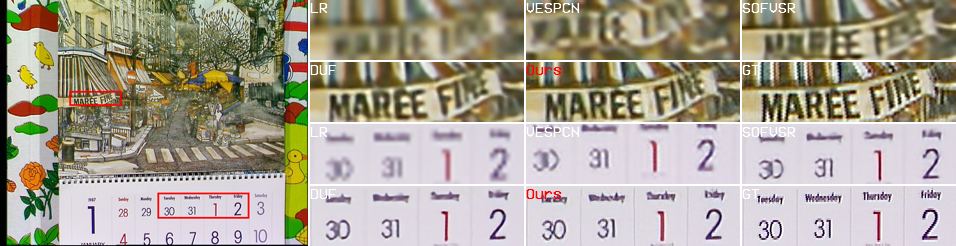
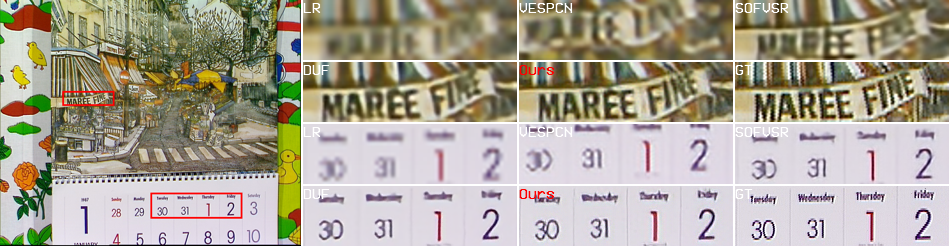
update
update readme file and other pictures

diff --git a/README.md b/README.md
@@ -1,57 +1,62 @@
-# TecoGAN-PyTorch
-
-### Introduction
-This is a PyTorch reimplementation of **TecoGAN**: **Te**mporally **Co**herent **GAN** for Video Super-Resolution (VSR). Please refer to the official TensorFlow implementation [TecoGAN-TensorFlow](https://github.com/thunil/TecoGAN) for more information.
+# EGVSR-PyTorch
 
 <p align = "center">
-    <img src="resources/fire.gif" width="320" />
-    <img src="resources/pond.gif" width="320" />
+    <img src="results/city.gif" width="480" /><br>VSR x4: EGVSR; Upscale x4: Bicubic Interpolation
 </p>
 
-<p align = "center">
-    <img src="resources/foliage.gif" width="320" />
-    <img src="resources/bridge.gif" width="320" />
-</p>
+## Contents
+- [EGVSR-PyTorch](#egvsr-pytorch)
+  - [Contents](#contents)
+  - [Introduction](#introduction)
+  - [Features](#features)
+  - [Dependencies](#dependencies)
+  - [Datasets](#datasets)
+    - [A. Training Dataset](#a-training-dataset)
+    - [B. Testing Datasets](#b-testing-datasets)
+  - [Benchmarks](#benchmarks)
+    - [A. Test on Vid4 Dataset](#a-test-on-vid4-dataset)
+    - [B. Test on Tos3 Dataset](#b-test-on-tos3-dataset)
+    - [C. Test on Gvt72 Dataset](#c-test-on-gvt72-dataset)
+    - [D. Optical-Flow based Motion Compensation](#d-optical-flow-based-motion-compensation)
+    - [E. Comprehensive Performance](#e-comprehensive-performance)
+  - [License & Citations](#license--citations)
+  - [Acknowledgements](#acknowledgements)
 
 
-### Features
-- **Better Performance**: This repo provides model with smaller size yet better performance than the official repo. See our [Benchmark](https://github.com/skycrapers/TecoGAN-PyTorch#benchmark) on Vid4 and ToS3 datasets.
-- **Multiple Degradations**: This repo supports two types of degradation, i.e., BI & BD. Please refer to [this wiki]() for more details about degradation types.
-- **Unified Framework**: This repo provides a unified framework for distortion-based and perception-based VSR methods.
+## Introduction
+This is a PyTorch implementation of **EGVSR**: **E**fficcient & **G**eneral Video Super-Resolution (**VSR**), using subpixel convolution to optimize the inference speed of TecoGAN VSR model. Please refer to the official implementation [ESPCN](https://github.com/leftthomas/ESPCN) and [TecoGAN](https://github.com/thunil/TecoGAN) for more information.
 
-### Contents
-1. [Dependencies](#dependencies)
-1. [Test](#test)
-1. [Training](#training)
-1. [Benchmark](#benchmark)
-1. [License & Citation](#license--citation)
-1. [Acknowledgements](#acknowledgements)
 
+## Features
+- **Unified Framework**: This repo provides a unified framework for various state-of-the-art DL-based VSR methods, such as VESPCN, SOFVSR, FRVSR, TecoGAN and our EGVSR.
+- - **Multiple Test Datasets**: This repo offers three types of video datasets for testing, i.e., standard test dataset -- Vid4, Tos3 used in TecoGAN and our new dataset -- Gvt72 (selected from [Vimeo](https://vimeo.com) site and including more scenes).
+- **Better Performance**: This repo provides model with faster inferencing speed yet better overall performance than prior methods. See more details in [Benchmarks](#benchmarks) section.
 
 
 ## Dependencies
 - Ubuntu >= 16.04
-- NVIDIA GPU + CUDA
+- NVIDIA GPU + CUDA & CUDNN
 - Python 3
 - PyTorch >= 1.0.0
-- Python packages: numpy, matplotlib, opencv-python, pyyaml, lmdb
+- Python packages: numpy, matplotlib, opencv-python, pyyaml, lmdb ([requirements.txt](requirements.txt) & [req.txt](req.txt))
 - (Optional) Matlab >= R2016b
 
 
+## Datasets
+### A. Training Dataset
+Download the official training dataset based on the instructions in [TecoGAN-TensorFlow](https://github.com/thunil/TecoGAN), rename to `VimeoTecoGAN` and then place under `./data`.
 
-## Test
+### B. Testing Datasets
+* Vid4 -- Four video sequences: city, calendar, foliage and walk;
+* Tos3 -- Three video sequences: bridge, face and room;
+* Gvt72 -- General VSR Test Dataset: 72 video sequences (including natural scenery, culture scenery, streetscape scene, life record, sports photography, etc, as shown below)
 
-**Note:** We apply different models according to the degradation type of the data. The following steps are for 4x upsampling in BD degradation. You can switch to BI degradation by replacing all `BD` to `BI` below.
+<p align = "center">
+    <img src="results/gvt72_preview.gif" width="640" />
+</p>
 
-1. Download the official Vid4 and ToS3 datasets.
-```bash
-bash ./scripts/download/download_datasets.sh BD 
-```
-> If the above command doesn't work, you can manually download these datasets from Google Drive, and then unzip them under `./data`.
-> * Vid4 Dataset [[Ground-Truth Data](https://drive.google.com/file/d/1T8TuyyOxEUfXzCanH5kvNH2iA8nI06Wj/view?usp=sharing)] [[Low Resolution Data (BD)](https://drive.google.com/file/d/1-5NFW6fEPUczmRqKHtBVyhn2Wge6j3ma/view?usp=sharing)] [[Low Resolution Data (BI)](https://drive.google.com/file/d/1Kg0VBgk1r9I1c4f5ZVZ4sbfqtVRYub91/view?usp=sharing)]
-> * ToS3 Dataset [[Ground-Truth Data](https://drive.google.com/file/d/1XoR_NVBR-LbZOA8fXh7d4oPV0M8fRi8a/view?usp=sharing)] [[Low Resolution Data (BD)](https://drive.google.com/file/d/1rDCe61kR-OykLyCo2Ornd2YgPnul2ffM/view?usp=sharing)] [[Low Resolution Data (BI)](https://drive.google.com/file/d/1FNuC0jajEjH9ycqDkH4cZQ3_eUqjxzzf/view?usp=sharing)] 
 
-The dataset structure is shown as below.
+The following shows the structure of the above three datasets.
 ```tex
 data
   ├─ Vid4
@@ -59,128 +64,99 @@ data
       └─ calendar
         ├─ 0001.png
         └─ ...
-    ├─ Gaussian4xLR      # Low Resolution (LR) video sequences in BD degradation
-      └─ calendar
-        ├─ 0001.png
-        └─ ...
-    └─ Bicubic4xLR       # Low Resolution (LR) video sequences in BI degradation
+    ├─ Gaussian4xLR      # Low Resolution (LR) video sequences in gaussian degradation and x4 down-sampling
       └─ calendar
         ├─ 0001.png
         └─ ...
   └─ ToS3
     ├─ GT
-    ├─ Gaussian4xLR
-    └─ Bicubic4xLR
+    └─ Gaussian4xLR
+  └─ Gvt72
+    ├─ GT
+    └─ Gaussian4xLR
 ```
 
-2. Download our pre-trained TecoGAN model. Note that this model is trained with lesser training data compared with the official one, since we can only retrieve 212 out of 308 videos from the official training dataset.
-```bash
-bash ./scripts/download/download_models.sh BD TecoGAN
-```
-> Again, you can download the model from [[BD degradation](https://drive.google.com/file/d/13FPxKE6q7tuRrfhTE7GB040jBeURBj58/view?usp=sharing)] or [[BI degradation](https://drive.google.com/file/d/1ie1F7wJcO4mhNWK8nPX7F0LgOoPzCwEu/view?usp=sharing)], and put it under `./pretrained_models`.
 
-3. Super-resolute the LR videos with TecoGAN. The results will be saved at `./results`.
-```bash
-bash ./test.sh BD TecoGAN
-```
+## Benchmarks
+**Experimental Environment**
+|        | Version            | Info.      |
+| ------ |:------------------ | :--------- |
+| System | Ubuntu 18.04.5 LTS | X86_64     |
+| CPU    | Intel i9-9900      | 3.10GHz    |
+| GPU    | Nvidia RTX 2080Ti  | 11GB GDDR6 |
+| Memory | DDR4 2666          | 32GB×2    |
 
-4. Evaluate SR results using the official metrics. These codes are borrowed from [TecoGAN-TensorFlow](https://github.com/thunil/TecoGAN), with minor modifications to adapt to BI mode.
-```bash
-python ./codes/official_metrics/evaluate.py --model TecoGAN_BD_iter500000
-```
-
-5. Check out model statistics (FLOPs, parameters and running speed). You can modify the last argument to specify the video size.
-```bash
-bash ./profile.sh BD TecoGAN 3x134x320
-```
-
-## Training
-1. Download the official training dataset based on the instructions in [TecoGAN-TensorFlow](https://github.com/thunil/TecoGAN), rename to `VimeoTecoGAN` and then place under `./data`.
-
-2. Generate LMDB for GT data to accelerate IO. The LR counterpart will then be generated on the fly during training.
-```bash
-python ./scripts/create_lmdb.py --dataset VimeoTecoGAN --data_type GT
-```
-
-The following shows the dataset structure after completing the above two steps.
-```tex
-data
-  ├─ VimeoTecoGAN          # Original (raw) dataset
-    ├─ scene_2000
-      ├─ col_high_0000.png
-      ├─ col_high_0001.png
-      └─ ...
-    ├─ scene_2001
-      ├─ col_high_0000.png
-      ├─ col_high_0001.png
-      └─ ...
-    └─ ...
-  └─ VimeoTecoGAN.lmdb     # LMDB dataset
-    ├─ data.mdb
-    ├─ lock.mdb
-    └─ meta_info.pkl       # each key has format: [vid]_[total_frame]x[h]x[w]_[i-th_frame]
-```
-
-3. **(Optional, this step is needed only for BI degradation)** Manually generate the LR sequences with Matlab's imresize function, and then create LMDB for them.
-```bash
-# Generate the raw LR video sequences. Results will be saved at ./data/Bicubic4xLR
-matlab -nodesktop -nosplash -r "cd ./scripts; generate_lr_BI"
-
-# Create LMDB for the raw LR video sequences
-python ./scripts/create_lmdb.py --dataset VimeoTecoGAN --data_type Bicubic4xLR
-```
-
-4. Train a FRVSR model first. FRVSR has the same generator as TecoGAN, but without GAN training. When the training is finished, copy and rename the last checkpoint weight from `./experiments_BD/FRVSR/001/train/ckpt/G_iter400000.pth` to `./pretrained_models/FRVSR_BD_iter400000.pth`. This step offers a better initialization for the TecoGAN training.
-```bash
-bash ./train.sh BD FRVSR
-```
-> You can download and use our pre-trained FRVSR model [[BD degradation](https://drive.google.com/file/d/11kPVS04a3B3k0SD-mKEpY_Q8WL7KrTIA/view?usp=sharing)] [[BI degradation](https://drive.google.com/file/d/1wejMAFwIBde_7sz-H7zwlOCbCvjt3G9L/view?usp=sharing)] without training from scratch.
->```bash
->bash ./scripts/download/download_models.sh BD FRVSR
->```
-
-5. Train a TecoGAN model. By default, the training is conducted in the background and the output info will be logged at `./experiments_BD/TecoGAN/001/train/train.log`.
-```bash
-bash ./train.sh BD TecoGAN
-```
-
-6. To monitor the training process and visualize the validation performance, run the following script.
-```bash
- python ./scripts/monitor_training.py --degradation BD --model TecoGAN --dataset Vid4
-```
-> Note that the validation results are NOT the same as the test results mentioned above, because we use a different implementation of the metrics. The differences are caused by croping policy, LPIPS version and some other issues.
-
-
-
-## Benchmark
-
+### A. Test on Vid4 Dataset
 <p align = "center">
-    <img src="resources/benchmark.png" width="640" />
+    <img src="results/cmp_Vid4_calendar_20.png"/>
+    <img src="results/cmp_Vid4_city_20.png"/>
+    <img src="results/cmp_Vid4_foliage_20.png"/>
+    <img src="results/cmp_Vid4_walk_10.png"/>
+    <br> 1.LR 2.VESPCN 3.SOFVSR 4.DUF 5.Ours:EGVSR 6.GT
+    <img src="results/vid4_benchmarks.png" width='640'/>
+    <br>Objective metrics for visual quality evaluation[1]
 </p>
 
-> <sup>[1]</sup> FLOPs & speed are computed on RGB sequence with resolution 134\*320 on NVIDIA GeForce GTX 1080Ti GPU. \
-> <sup>[2]</sup> Both FRVSR & TecoGAN use 10 residual blocks, while TecoGAN+ has 16 residual blocks.
+### B. Test on Tos3 Dataset
+<p align = "center">
+    <img src="results/input_img_ToS3.png"/>
+    <img src="results/cmp_ToS3_bridge_13945.png"/>
+    <img src="results/cmp_ToS3_face_9945.png"/>
+    <img src="results/cmp_ToS3_room_4400.png"/>
+    <br> 1.VESPCN 2.SOFVSR 3. FRVSR 4.TecoGAN 5.Ours:EGVSR 6.GT
+    
+</p>
+    
+### C. Test on Gvt72 Dataset
+<p align = "center">
+    <img src="results/cmp_Gvt72.png"/>
+    <br> 1.LR 2.VESPCN 3.SOFVSR 4.DUF 5.Ours:EGVSR 6.GT    
+    <img src="results/benchmarks.png" width='800'/>
+    <br> Objective metrics for visual quality and temporal coherence evaluation[1]
+</p>
+
+### D. Optical-Flow based Motion Compensation
+
+Please refer to [FLOW_walk](result/seq_flow_walk.png), [FLOW_foliage](result/seq_flow_foliage.png) and [FLOW_city](result/seq_flow_city.png).
+
+### E. Comprehensive Performance
+
+<script type="text/javascript" src="http://cdn.mathjax.org/mathjax/latest/MathJax.js?config=default"></script>
+
+$$M_{nor}=(M-M_{min})/(M_{max}-M_{min})) \\
+Score=1-(\lambda_{1}LPIPS_{nor}+\lambda_{2}tOF{nor}+\lambda_{3}tLP100_{nor})[2]$$
 
 
+<p align = "center">
+  <img src="results/performance.png" width="640" />
+  <br> Comparison of various SOTA VSR model on video quality score and speed performance[3]
+</p>
 
-## License & Citation
-The provided implementation is strictly for academic purposes only. If you use this code for your research, please cite the following paper.
-```tex
-@article{tecogan2020,
-  title={Learning temporal coherence via self-supervision for GAN-based video generation},
-  author={Chu, Mengyu and Xie, You and Mayer, Jonas and Leal-Taix{\'e}, Laura and Thuerey, Nils},
-  journal={ACM Transactions on Graphics (TOG)},
-  volume={39},
-  number={4},
-  pages={75--1},
-  year={2020},
-  publisher={ACM New York, NY, USA}
+
+> <sup>[1]</sup> $\downarrow$: smaller value for better performance, $\uparrow$: on the contrary; Red: stands for Top1, Blue: Top2.
+> <sup>[2]</sup> The calculation formula of video quality score considering both spatial and temporal domain, using lambda1=lambda2=lambda3=1/3.
+> <sup>[3]</sup> FLOPs & speed are computed on RGB with resolution 960x540 to 3840x2160 (4K) on NVIDIA GeForce GTX 2080Ti GPU.
+
+
+## License & Citations
+This EGVSR project is released under the MIT license. See more details in [LICENSE](LICENSE).
+The provided implementation is strictly for academic purposes only. If BasicSR helps your research or work, please consider citing BasicSR. The following is a BibTeX reference:
+
+``` latex
+@misc{thmen2021egvsr,
+  author =       {Yanpeng Cao and Chengcheng Wang and Feng Yu and Yongming Tang},
+  title =        {EGVSR},
+  howpublished = {\url{https://github.com/Thmen/EGVSR}},
+  year =         {2021}
 }
 ```
 
+> Yanpeng Cao, Chengcheng Wang, Feng Yu and Yongming Tang. EGVSR. https://github.com/Thmen/EGVSR, 2021.
 
 
 ## Acknowledgements
-This code is built on [TecoGAN-TensorFlow](https://github.com/thunil/TecoGAN), [BasicSR](https://github.com/xinntao/BasicSR) and [LPIPS](https://github.com/richzhang/PerceptualSimilarity). We thank the authors for sharing their codes.
-
-If you have any questions, feel free to email `jn.deng@foxmail.com`
+This code is built on the following projects. We thank the authors for sharing their codes.
+1. [ESPCN](https://github.com/leftthomas/ESPCN)
+2. [BasicSR](https://github.com/xinntao/BasicSR)
+3. [VideoSuperResolution](https://github.com/LoSealL/VideoSuperResolution)
+4. [TecoGAN-PyTorch](https://github.com/skycrapers/TecoGAN-PyTorch)
